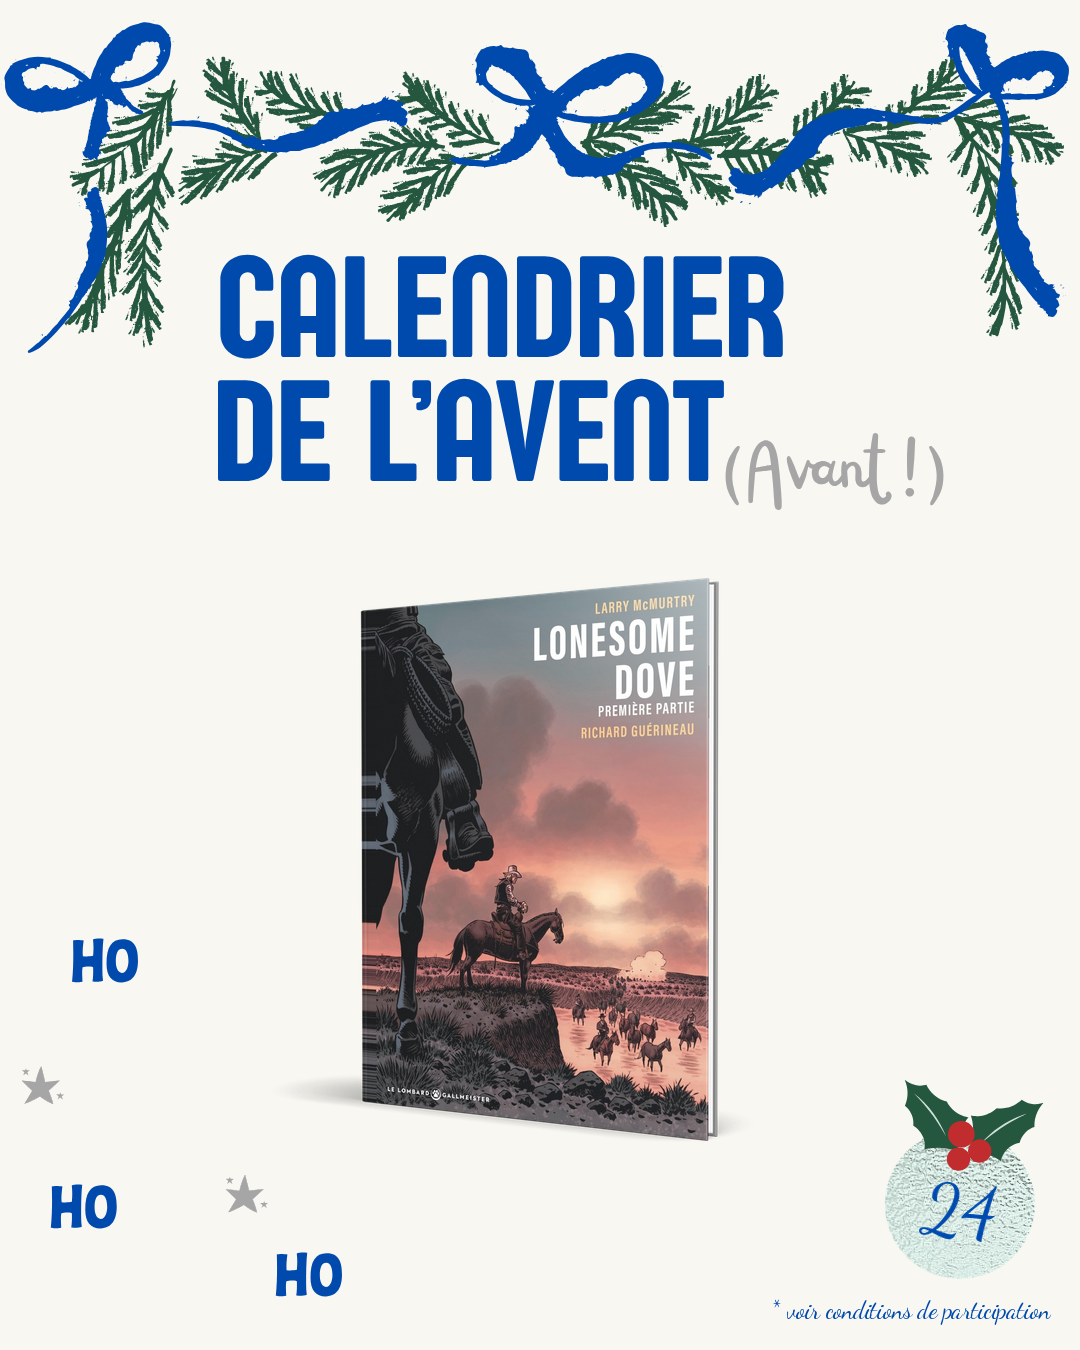
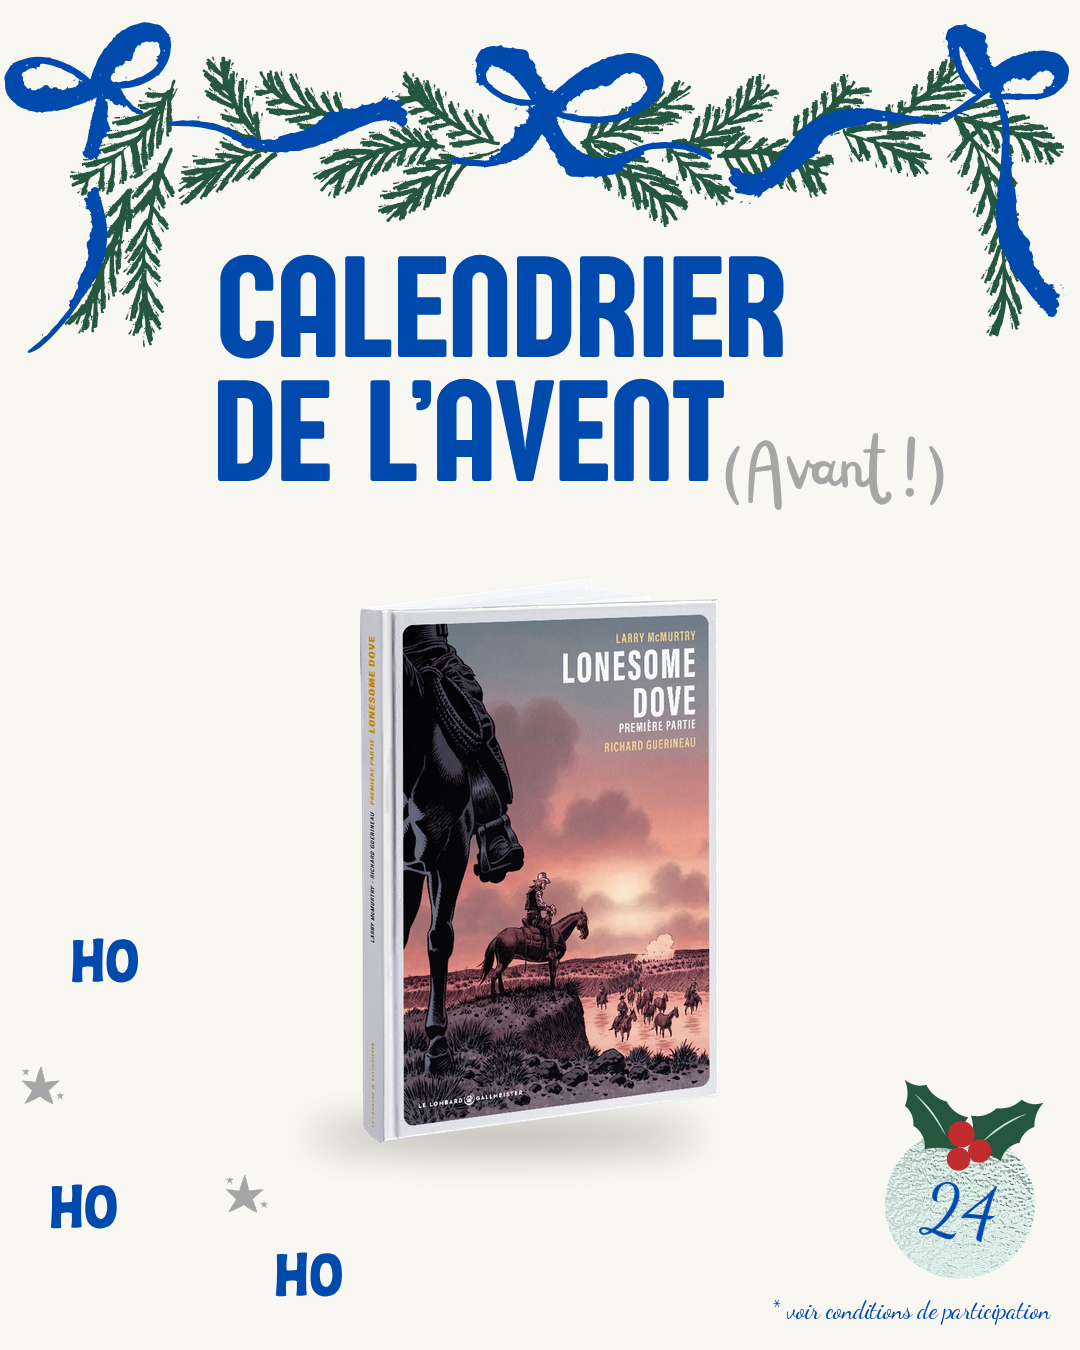
Calendrier Avant : simulation 3D fournie pour le jour 24 (Lonesome Dove)
Claude-Session: https://claude.ai/code/session_01QaZk7QZvzTVY1x8op41wve

Changed region(s): [[0.3056, 0.4044, 0.6722, 0.8711]]

diff --git a/calendrier-avent-2026/README.md b/calendrier-avent-2026/README.md
@@ -31,7 +31,7 @@ angles -5°, -2°, +1°, +4°… (+3° par album), chaque album décalé de 40 %
 
 Deux albums (séries différentes) : -3° / +3°, celui de droite à 102 % et derrière, chevauchement 10 %, ombre portée. Un album : droit, centré, à 110 %.
 
-Simulation 3D fournie (PNG détouré dans `assets/simu3d/<ISBN>-….png`) : utilisée automatiquement à la place du mockup (jour 9 : Betty, Le Gang de la clef à molette ; jour 10 : Le soleil va se lever).
+Simulation 3D fournie (PNG détouré dans `assets/simu3d/<ISBN>-….png`) : utilisée automatiquement à la place du mockup (jour 9 : Betty, Le Gang de la clef à molette ; jour 10 : Le soleil va se lever ; jour 24 : Lonesome Dove).
 Si la simulation a déjà sa propre ombre au sol, elle est gardée telle quelle.
 
 Compositions sur mesure : dictionnaire `COMPOSITIONS` de `planning.py` (angle, échelle, profondeur `z` et écarts par album).
